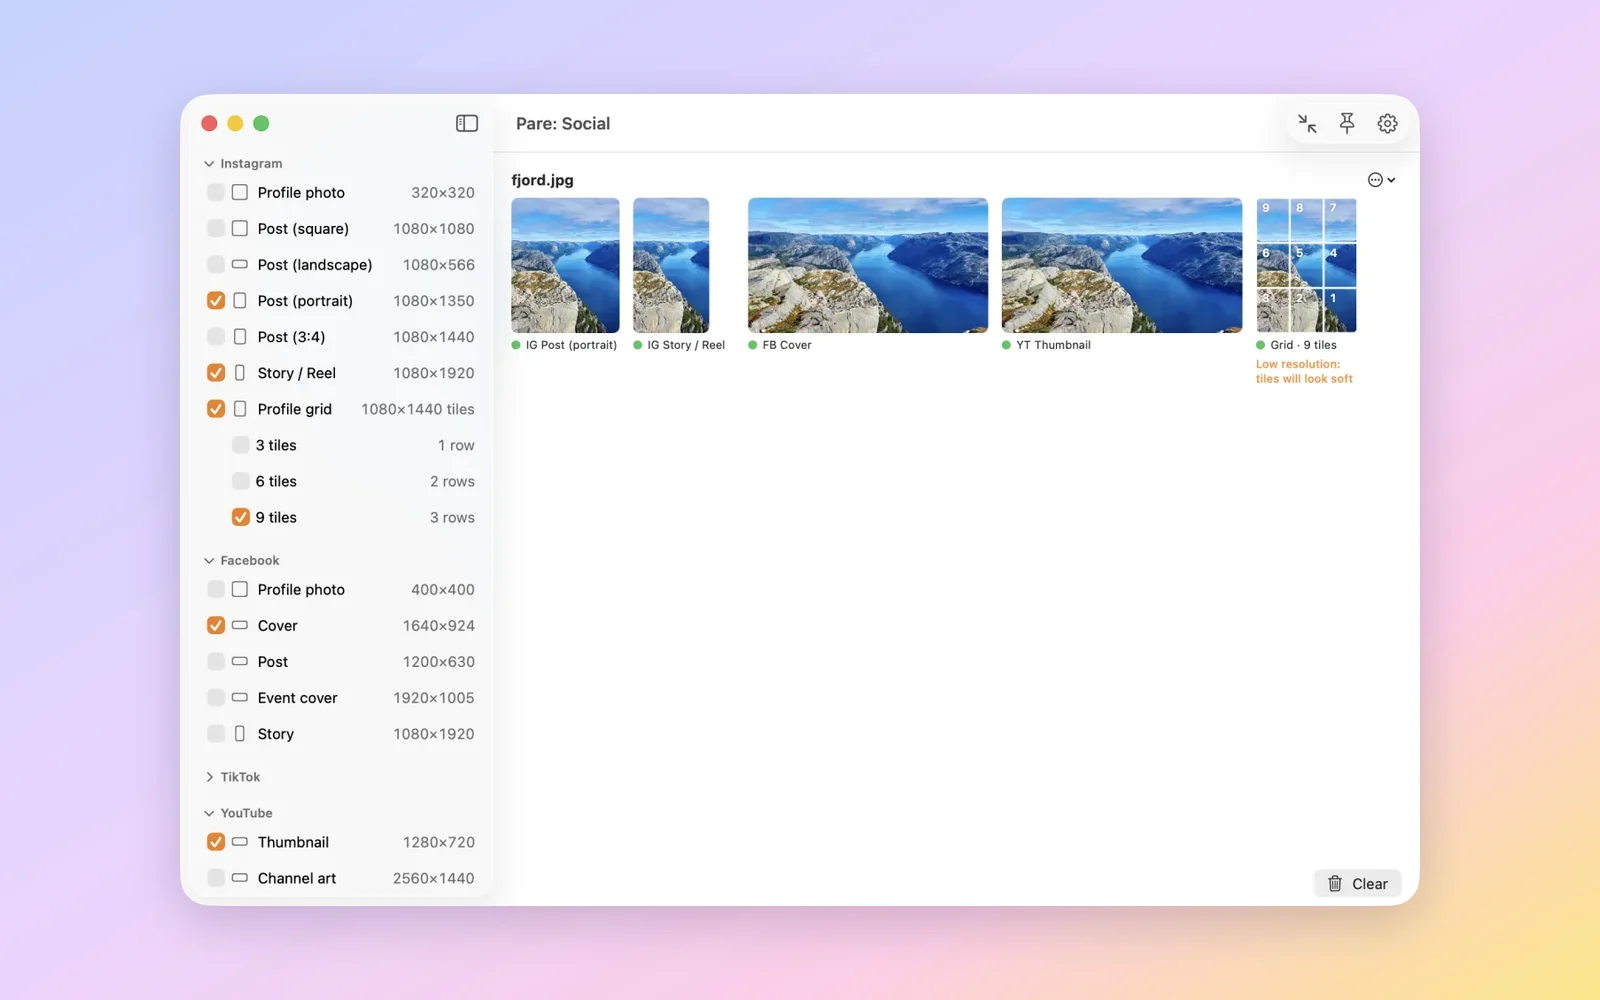
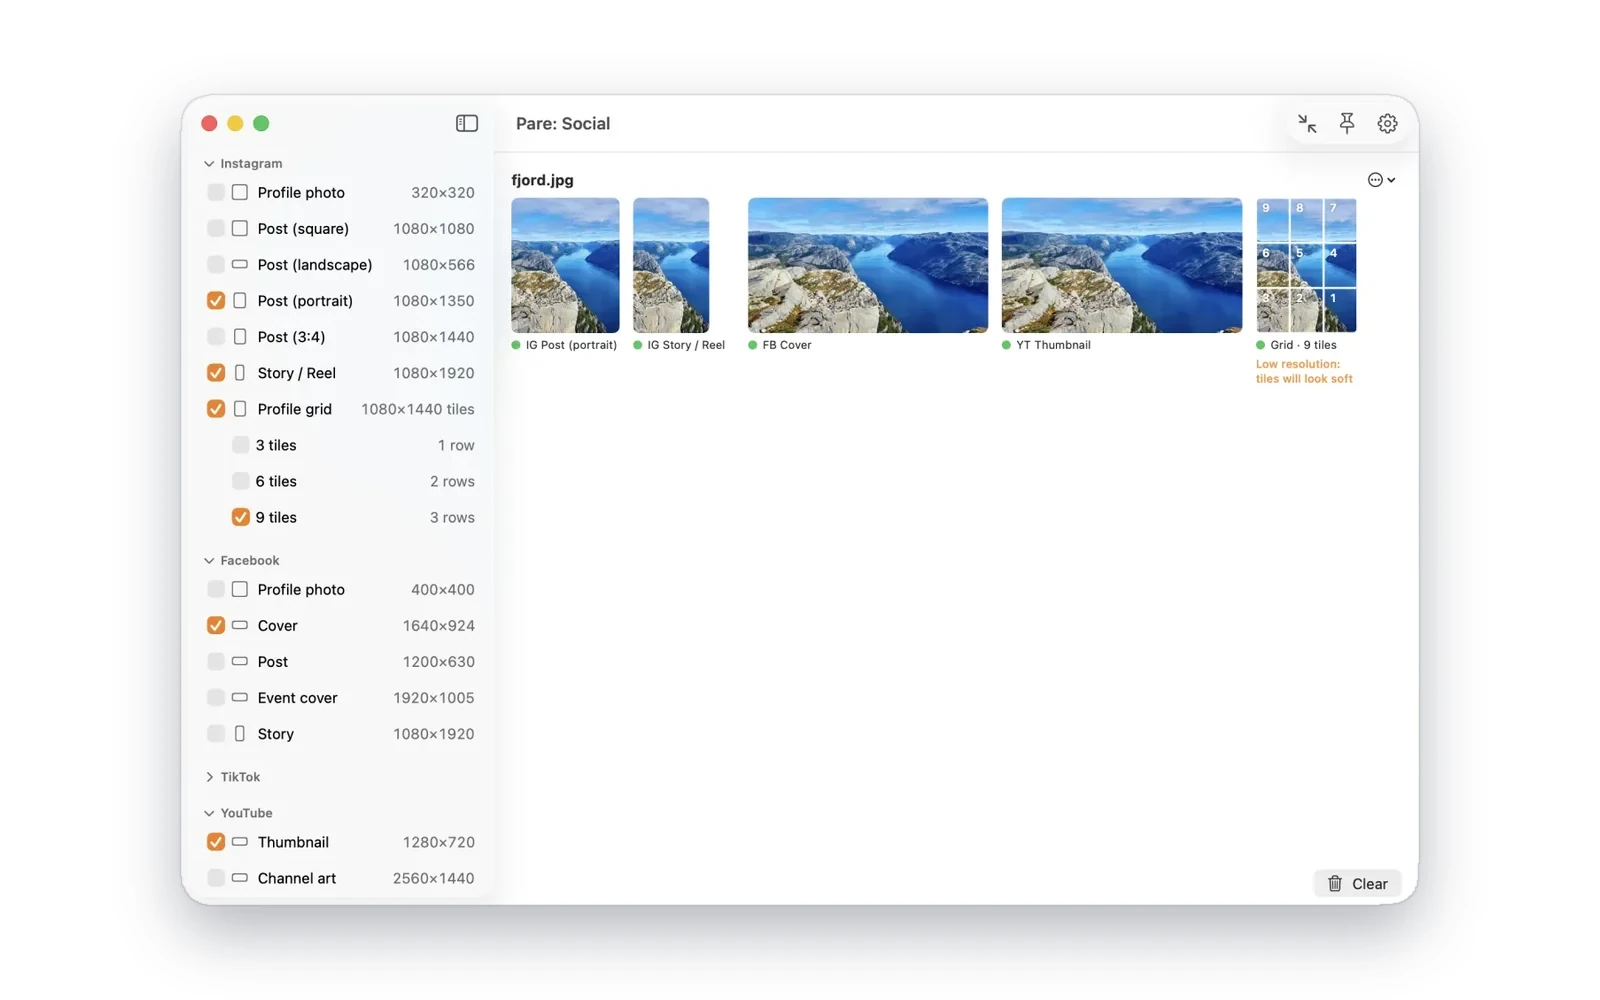
renkli border kalkti, videolar telefonda duzeldi

diff --git a/projects/pare/index.html b/projects/pare/index.html
@@ -42,8 +42,8 @@
       .soon { display: inline-flex; align-items: center; gap: 7px; padding: 6px 12px 6px 10px; border-radius: 999px; font-size: 13.5px; font-weight: 500; line-height: 1; color: #475569; background: #fff; border: 1px solid #e2e8f0; }
       .soon svg { width: 14px; height: 14px; color: #e8883a; flex: none; }
       .app-icon { width: 72px; height: 72px; border-radius: 16px; filter: drop-shadow(0 6px 14px rgba(15,23,42,.18)); }
-      /* screenshots sit on a soft desktop-like backdrop, like a Mac wallpaper */
-      .desk { position: relative; border-radius: 20px; padding: 36px; background: linear-gradient(135deg, #c7d2fe 0%, #e9d5ff 45%, #fbcfe8 75%, #fde68a 100%); overflow: hidden; }
+      /* screenshots sit straight on the page: no backdrop, just the window shadow */
+      .desk { position: relative; border-radius: 20px; padding: 36px; }
       .win { display: block; width: 100%; height: auto; border-radius: 12px; box-shadow: 0 0 0 .5px rgba(15,23,42,.18), 0 22px 50px -18px rgba(15,23,42,.45); background: #fff; }
       .step { display: flex; flex-direction: column; gap: 8px; padding: 24px; background: #fff; border: 1px solid #eef2f6; border-radius: 16px; }
       .step-n { width: 32px; height: 32px; border-radius: 50%; display: grid; place-items: center; background: var(--ink); color: #fff; font-weight: 600; font-size: 14px; font-variant-numeric: tabular-nums; margin-bottom: 4px; }
@@ -177,7 +177,7 @@
       .qseg .thumb { position: absolute; z-index: 0; top: 4px; bottom: 4px; left: 0; border-radius: 7px; background: #fff; box-shadow: 0 1px 2px rgba(15,23,42,.12); transition: transform 200ms var(--ease-in-out), width 200ms var(--ease-in-out); }
       .qseg button { position: relative; z-index: 1; border: 0; background: none; padding: 7px 14px; border-radius: 7px; font: 500 14px/1 Inter, system-ui, sans-serif; color: #475569; cursor: pointer; transition: color 150ms var(--ease-out), transform 100ms var(--ease-out); }
       .qseg button[aria-pressed="true"] { color: var(--ink); } .qseg button:active { transform: scale(.97); }
-      @media (max-width: 640px) { .desk { padding: 18px; } .looks .win + .win { inset: 18px; width: calc(100% - 36px); } .finder { grid-template-columns: 1fr; height: 620px; } .f-side { display: none; } .f-bar .lights { display: flex; } .scene { padding: 20px 10px 16px; } .f-grid { grid-template-columns: repeat(3, 1fr); padding: 12px 6px; } .f-thumb { width: 70px; height: 70px; } .f-thumb img { max-width: 64px; max-height: 64px; } .f-wrap { width: 100%; } .portal-wrap { right: 6px; top: 6px; } .portal-label { display: none; } .cmp-head { grid-template-columns: 1fr 1fr; } .cmp-head .c { display: none; } .bar-row { grid-template-columns: 1fr; gap: 4px; } }
+      @media (max-width: 640px) { .desk { padding: 18px; } .looks .win + .win { inset: 18px; width: calc(100% - 36px); } .finder { grid-template-columns: 1fr; height: auto; } .scene { min-height: 0; } .f-side { display: none; } .f-bar .lights { display: flex; } .scene { padding: 20px 10px 16px; } .f-grid { grid-template-columns: repeat(3, 1fr); padding: 12px 6px; } .f-thumb { width: 70px; height: 70px; } .f-thumb img { max-width: 64px; max-height: 64px; } .f-wrap { width: 100%; } .portal-wrap { right: 6px; top: 6px; } .portal-label { display: none; } .cmp-head { grid-template-columns: 1fr 1fr; } .cmp-head .c { display: none; } .bar-row { grid-template-columns: 1fr; gap: 4px; } }
       @media (prefers-reduced-motion: reduce) { .looks .win, .looks .win.in, .seg .thumb { transition: none; } .zoomer.anim, .f-item.fresh, .ghost.suck, .bar-fill, .qseg .thumb { transition: none; } }
     </style>
 </head>

diff --git a/projects/pare-social/index.html b/projects/pare-social/index.html
@@ -36,7 +36,7 @@
       .soon { display: inline-flex; align-items: center; gap: 7px; padding: 6px 12px 6px 10px; border-radius: 999px; font-size: 13.5px; font-weight: 500; line-height: 1; color: #475569; background: #fff; border: 1px solid #e2e8f0; }
       .soon svg { width: 14px; height: 14px; color: var(--pink); flex: none; }
       .app-icon { width: 72px; height: 72px; border-radius: 16px; filter: drop-shadow(0 6px 14px rgba(15,23,42,.18)); }
-      .desk { position: relative; border-radius: 20px; padding: 36px; background: linear-gradient(135deg, #c7d2fe 0%, #e9d5ff 45%, #fbcfe8 75%, #fde68a 100%); overflow: hidden; }
+      .desk { position: relative; border-radius: 20px; padding: 36px; }
       .win { display: block; width: 100%; height: auto; border-radius: 12px; box-shadow: 0 0 0 .5px rgba(15,23,42,.18), 0 22px 50px -18px rgba(15,23,42,.45); background: #fff; }
       .step { display: flex; flex-direction: column; gap: 8px; padding: 24px; background: #fff; border: 1px solid #eef2f6; border-radius: 16px; }
       .step-n { width: 32px; height: 32px; border-radius: 50%; display: grid; place-items: center; background: var(--ink); color: #fff; font-weight: 600; font-size: 14px; font-variant-numeric: tabular-nums; margin-bottom: 4px; }
@@ -110,7 +110,7 @@
       .faces { display: grid; grid-template-columns: 0.9fr 1fr; gap: 16px; align-items: center; }
       .faces figure { position: relative; margin: 0; }
       .faces img { display: block; width: 100%; height: auto; border-radius: 10px; box-shadow: 0 0 0 .5px rgba(15,23,42,.18), 0 18px 40px -18px rgba(15,23,42,.45); }
-      .facebox { position: absolute; border: 2.5px solid #fff; border-radius: 8px; box-shadow: 0 0 0 1px rgba(0,0,0,.25), 0 0 0 9999px rgba(15,23,42,.18); pointer-events: none; }
+      .facebox { position: absolute; border: 2.5px solid #fff; border-radius: 8px; box-shadow: 0 0 0 1px rgba(0,0,0,.25);  /* just the white box: no dimming around it */ pointer-events: none; }
       .facebox span { position: absolute; left: -2px; top: -28px; font: 600 12px/1 Inter, sans-serif; color: #fff; background: rgba(15,23,42,.7); padding: 5px 8px; border-radius: 6px; white-space: nowrap; }
       .outs { display: grid; grid-template-columns: 0.75fr 1fr; gap: 12px; align-items: end; }
       .outs .wide { grid-column: 1 / -1; }

diff --git a/projects/pare-pdf/index.html b/projects/pare-pdf/index.html
@@ -35,7 +35,7 @@
       .soon { display: inline-flex; align-items: center; gap: 7px; padding: 6px 12px 6px 10px; border-radius: 999px; font-size: 13.5px; font-weight: 500; line-height: 1; color: #475569; background: #fff; border: 1px solid #e2e8f0; }
       .soon svg { width: 14px; height: 14px; color: var(--amber); flex: none; }
       .app-icon { width: 72px; height: 72px; border-radius: 16px; filter: drop-shadow(0 6px 14px rgba(15,23,42,.18)); }
-      .desk { position: relative; border-radius: 20px; padding: 36px; background: linear-gradient(135deg, #c7d2fe 0%, #e9d5ff 45%, #fbcfe8 75%, #fde68a 100%); overflow: hidden; }
+      .desk { position: relative; border-radius: 20px; padding: 36px; }
       .step { display: flex; flex-direction: column; gap: 8px; padding: 24px; background: #fff; border: 1px solid #eef2f6; border-radius: 16px; }
       .step-n { width: 32px; height: 32px; border-radius: 50%; display: grid; place-items: center; background: var(--ink); color: #fff; font-weight: 600; font-size: 14px; font-variant-numeric: tabular-nums; margin-bottom: 4px; }
       .feat { display: flex; flex-direction: column; gap: 6px; padding: 24px; border-radius: 16px; background: #f8fafc; border: 1px solid #eef2f6; }

diff --git a/script.js b/script.js
@@ -26,12 +26,14 @@ function openVideoModal(projectName) {
   lastFocusedElement = document.activeElement;
   if (titleEl) titleEl.textContent = projectName; // the placeholder title is replaced by the video on the first open
 
-  const videoHost = modalContent.querySelector(".aspect-video");
+  const videoHost = document.getElementById("video-modal-host"); // by id: the aspect class changes on phones
   if (videoHost) {
     const tall = VIDEO_MAP[projectName]?.startsWith("assets/videos/") && matchMedia("(max-width: 640px)").matches;
     const src = tall ? VIDEO_MAP[projectName].replace(".mp4", "-vertical.mp4") : VIDEO_MAP[projectName];
     videoHost.classList.toggle("aspect-video", !tall);
     videoHost.classList.toggle("aspect-[9/16]", tall);
+    // phones: the tall video fits in 68% of the screen height, so the X and the whole video stay visible
+    modalContent.style.maxWidth = tall ? "calc(68dvh * 9 / 16)" : "";
 
     if (!src) {
       videoHost.innerHTML = `<p class="text-white text-lg font-light">Video not set for ${projectName}</p>`;

diff --git a/index.html b/index.html
@@ -524,7 +524,7 @@
                 </button>
             </div>
             
-            <div class="aspect-video w-full flex items-center justify-center bg-slate-900">
+            <div id="video-modal-host" class="aspect-video w-full flex items-center justify-center bg-slate-900">
                 <p class="text-white text-lg font-light flex flex-col items-center gap-4">
                     <span class="text-4xl">▶</span>
                     <span id="modal-video-title">Video Placeholder</span>
